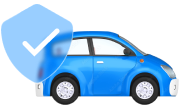
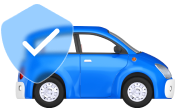
fix header & choice && fix img style && fix button style

diff --git a/src/blocks/choice/choice.scss b/src/blocks/choice/choice.scss
@@ -1,22 +1,16 @@
 .choice {
   position: relative;
-  &__text{
-    width: 66%;
-    @include media-laptop{
-      width: 100%;
-    }
-  }
   &__content {
     position: relative;
     padding-bottom: 40px;
     @include media-laptop {
       padding-bottom: 30px;
     }
-    @include media-tablet{
+    @include media-tablet {
       padding-bottom: 43px;
     }
   }
-  &__wrapper{
+  &__wrapper {
     display: grid;
     grid-template-columns: repeat(3, 1fr);
     gap: 20px 30px;
@@ -24,7 +18,7 @@
       grid-template-columns: repeat(2, 1fr);
       gap: 20px;
     }
-    @include media-tablet{
+    @include media-tablet {
       display: flex;
       gap: 0;
     }
@@ -40,17 +34,21 @@
       padding: 30px 22px;
     }
     @include media-tablet {
-      text-align: left;
-      max-width: 302px;
+      max-width: 270px;
       padding: 20px 16px 30px;
+      text-align: left;
     }
     &__image {
-      display: flex;
-      justify-content: center;
-      margin-bottom: 30px;
+      min-width: 130px;
+      max-width: 178px;
+      margin: 0 auto 38px;
+      @include media-laptop {
+        margin-bottom: 30px;
+      }
       @include media-tablet {
-        justify-content: start;
-        margin-bottom: 24px;
+        max-width: 130px;
+        margin: 0;
+        padding: 0;
       }
     }
     &__title {
@@ -67,25 +65,25 @@
     display: block;
     margin: 0 auto;
   }
-    .swiper{
-      &-pagination {
-        display: none;
-        @include media-tablet {
-          display: block;
-          bottom: 0;
-          margin-bottom: 24px;
-        }
+  .swiper {
+    &-pagination {
+      display: none;
+      @include media-tablet {
+        display: block;
+        bottom: 0;
+        margin-bottom: 24px;
       }
     }
-      .swiper-pagination-bullet {
-        height: 5px;
-        width: 5px;
-        background: $main-primary-primary-70;
-        opacity: 0.7;
-        &-active {
-          width: 20px;
-          border-radius: 10px;
-          background: $main-primary-primary-50;
-        }
-      }
+  }
+  .swiper-pagination-bullet {
+    height: 5px;
+    width: 5px;
+    background: $main-primary-primary-70;
+    opacity: 0.7;
+    &-active {
+      width: 20px;
+      border-radius: 10px;
+      background: $main-primary-primary-50;
+    }
+  }
 }

diff --git a/src/blocks/header/header.scss b/src/blocks/header/header.scss
@@ -1,31 +1,34 @@
 .header {
   flex: 0 1;
-  &__logo{
-    margin-right: 40px;
-    @include media-tablet {
-      margin-right: 20px;
-      height: 24px;
-    }
-  }
-  &__ui-button{
-    border: 2px solid $base-primary;
-  }
-  &__top{
-    border-bottom: 1px solid $main-neutral-neutral-variant-90;
+  &__top {
     padding: 0 20px;
+    border-bottom: 1px solid $main-neutral-neutral-variant-90;
   }
-  &__bot{
+  &__bot {
     padding: 0 20px;
     @include media-tablet {
       padding: 0 16px;
     }
   }
-  &__content{
+  &__content {
     display: flex;
     align-items: center;
     justify-content: space-between;
     gap: 5px;
     padding: 16px 0;
+  }
+  &__logo {
+    height: 32px;
+    min-width: 155px;
+    margin-right: 40px;
+    @include media-tablet {
+      min-width: 116px;
+      height: 24px;
+      margin-right: 20px;
+    }
+  }
+  &__ui-button {
+    border: 2px solid $base-primary;
   }
   &__login {
     display: flex;
@@ -36,11 +39,14 @@
       align-items: center;
       gap: 3px;
       &__wrapper {
-        height: 18px;
+        min-width: 18px;
+        @include media-laptop {
+          min-width: 16px;
+        }
       }
     }
   }
-  .nav{
+  .nav {
     display: flex;
     align-items: center;
     justify-content: space-between;
@@ -56,7 +62,7 @@
           width: 100%;
           height: 3px;
           margin-top: 19px;
-          content: "";
+          content: '';
           opacity: 0;
           background-color: $base-primary;
           transition: opacity 0.3s;
@@ -74,7 +80,6 @@
       .nav__link {
         display: flex;
         align-items: center;
-        height: 24px;
         gap: 6px;
       }
     }

diff --git a/src/layout/layout.scss b/src/layout/layout.scss
@@ -25,13 +25,14 @@ body {
 }
 img {
   display: block;
-  max-width: 100%;
+  width: 100%;
+  height: 100%;
 }
 a {
   text-decoration: none;
   color: $base-black;
   transition: 0.3s;
-  &:hover{
+  &:hover {
     color: $base-primary;
   }
 }
@@ -61,7 +62,7 @@ blockquote {
   padding: 0;
 }
 
-button{
+button {
   background: none;
   border: none;
 }
@@ -83,27 +84,30 @@ button{
   .main {
     flex: 1 0;
     padding: 0 20px 90px;
+    @include media-tablet {
+      padding: 0 16px 90px;
+    }
   }
 }
 .mob-hidden {
-  @include media-tablet{
-    display: none;
+  @include media-tablet {
+    display: none !important;
   }
 }
 .mob-disp {
-  display: none;
+  display: none !important;
   @include media-tablet {
-    display: block;
+    display: block !important;
   }
 }
 .tablet-hidden {
   @include media-laptop {
-    display: none;
+    display: none !important;
   }
 }
 .tablet-disp {
-  display: none;
+  display: none !important;
   @include media-laptop {
-    display: block;
+    display: block !important;
   }
 }

diff --git a/src/blocks/section/section.scss b/src/blocks/section/section.scss
@@ -8,16 +8,22 @@
       margin-top: 40px;
     }
   }
-  &__head{
+  &-head {
     margin-bottom: 35px;
     @include media-laptop {
       margin-bottom: 24px;
     }
-  }
-  &__title{
-    margin-bottom: 18px;
-    @include media-laptop {
-      margin-bottom: 12px;
+    &__ui-h2 {
+      margin-bottom: 18px;
+      @include media-laptop {
+        margin-bottom: 12px;
+      }
+    }
+    &__ui-p2 {
+      width: 66%;
+      @include media-laptop {
+        width: 100%;
+      }
     }
   }
 }

diff --git a/src/blocks/_ui/ui-button/ui-button.scss b/src/blocks/_ui/ui-button/ui-button.scss
@@ -9,7 +9,7 @@
   font-family: $font-Montserrat;
   cursor: pointer;
   @include media-tablet {
-    min-width: 296px;
+    min-width: 329px;
     padding-top: 10px;
     padding-bottom: 10px;
   }
